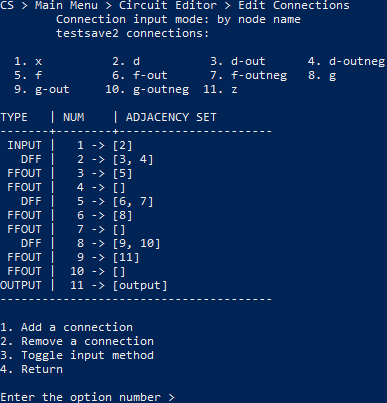
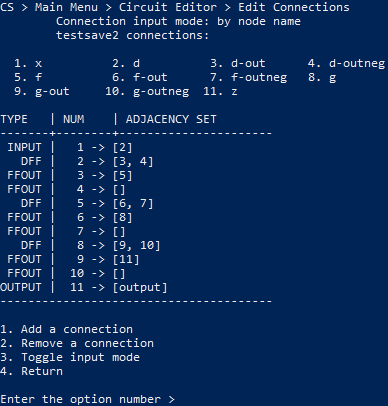
changed toggle input method option to toggle input mode

diff --git a/src/simulator/circuit/project/CircuitEditor.java b/src/simulator/circuit/project/CircuitEditor.java
@@ -248,7 +248,7 @@ public class CircuitEditor {
         ArrayList<String> options = new ArrayList<String>();
         options.add("Add a connection");
         options.add("Remove a connection");
-        options.add("Toggle input method");
+        options.add("Toggle input mode");
         options.add("Return");
 
         do {
